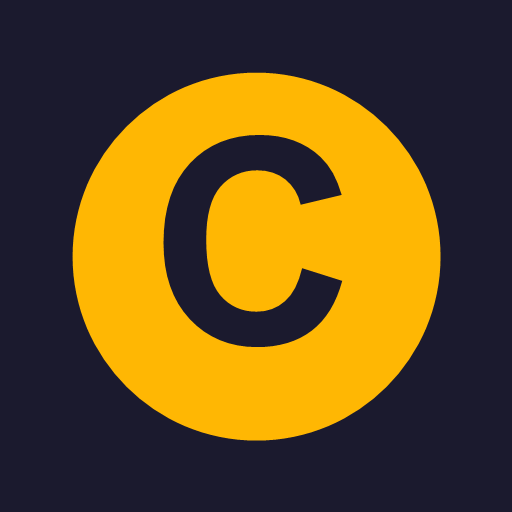
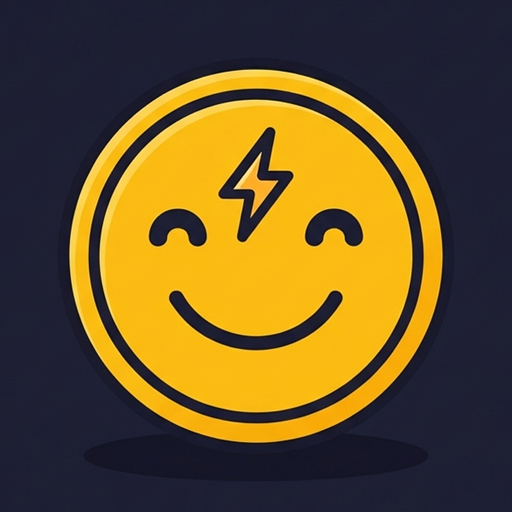
v0.7.1: icona dell'app (any + maskable) e illustrazione della home da immagini generate; sfondo allineato (#1e1f34)

Changed region(s): [[0.125, 0.125, 0.875, 0.875], [0.2812, 0.25, 0.7188, 0.6875]]

diff --git a/css/style.css b/css/style.css
@@ -17,7 +17,7 @@
 }
 
 :root {
-  --bg: #1b1a2e;
+  --bg: #1e1f34;
   --bg-2: #26254a;
   --card: #2f2e5c;
   --text: #f6f3ff;
@@ -832,3 +832,16 @@ button.info {
 .ten-cell.sel { transform: scale(0.9); outline: 4px solid white; }
 .ten-cell.gone { opacity: 0; transform: scale(0.5); }
 .ten-cell.wrong { animation: shake 0.25s; outline: 4px solid var(--danger); }
+
+/* ---------------------------------------------------------------
+   Home: illustrazione
+   --------------------------------------------------------------- */
+.hero {
+  margin: -8px -16px 0;
+  line-height: 0;
+  -webkit-mask-image: linear-gradient(to bottom, #000 78%, transparent 100%);
+  mask-image: linear-gradient(to bottom, #000 78%, transparent 100%);
+}
+.hero img { width: 100%; height: auto; display: block; }
+.home-title { margin-top: -6px; }
+@media (max-height: 700px) { .hero { display: none; } .home-title { margin-top: 24px; } }

diff --git a/sw.js b/sw.js
@@ -5,7 +5,7 @@
   salvata l'ultima volta.
 */
 
-const CACHE_VERSION = "0.7.0"; // tenere allineato a js/version.js
+const CACHE_VERSION = "0.7.1"; // tenere allineato a js/version.js
 const CACHE = `cellcittine-${CACHE_VERSION}`;
 
 const PRECACHE = [
@@ -51,6 +51,9 @@ const PRECACHE = [
   "./fonts/fredoka-latin-ext.woff2",
   "./icons/icon-192.png",
   "./icons/icon-512.png",
+  "./icons/icon-maskable-192.png",
+  "./icons/icon-maskable-512.png",
+  "./assets/home-hero.jpg",
 ];
 
 self.addEventListener("install", (event) => {

diff --git a/js/app.js b/js/app.js
@@ -141,8 +141,10 @@ function showHome(message = "") {
 
   statusEl = statusLine(message, !!message);
 
+  const hero = el("div", { class: "hero" }, [el("img", { src: "assets/home-hero.jpg", alt: "", width: "1000", height: "521" })]);
   show(
-    el("h1", { text: "CELLCITTINE" }),
+    hero,
+    el("h1", { class: "home-title", text: "CELLCITTINE" }),
     el("p", { text: "Sfide a minigiochi, da soli o in gruppo" }),
     el("div", { class: "card" }, [
       nameInput,

diff --git a/index.html b/index.html
@@ -3,7 +3,7 @@
 <head>
   <meta charset="UTF-8">
   <meta name="viewport" content="width=device-width, initial-scale=1, viewport-fit=cover, user-scalable=no">
-  <meta name="theme-color" content="#1b1a2e">
+  <meta name="theme-color" content="#1e1f34">
   <meta name="mobile-web-app-capable" content="yes">
   <meta name="apple-mobile-web-app-capable" content="yes">
   <meta name="apple-mobile-web-app-status-bar-style" content="black-translucent">

diff --git a/js/version.js b/js/version.js
@@ -1,3 +1,3 @@
 // Numero di versione mostrato nell'angolo dello schermo.
 // Va aggiornato insieme a CACHE_VERSION in sw.js a ogni pubblicazione.
-export const VERSION = "0.7.0";
+export const VERSION = "0.7.1";

diff --git a/ROADMAP.md b/ROADMAP.md
@@ -20,12 +20,12 @@ Una riga per idea: `- [ ] cosa` → `- [x] cosa (vX.Y.Z)`. Le decisioni prese st
 - [x] Nessuna manche può bloccarsi: limiti di tempo in Copia e Cronometro cieco (v0.6.1)
 
 - [x] Carattere tipografico Fredoka in tutto il gioco (v0.7.0)
+- [x] Icona dell'app (normale + maskable) e illustrazione della home generate con Nano Banana (v0.7.1)
 
 ## Prossimi passi (in ordine di priorità, da confermare con l'utente)
 
 - [ ] Feedback dal gruppo di test (le ragazze e amici): taratura difficoltà, suoni, minigiochi noiosi da togliere
 - [ ] Rifinitura visiva: transizioni tra schermate, coriandoli sul podio, conto alla rovescia più scenografico
-- [ ] Icona dell'app e schermata iniziale con grafica generata (Nano Banana, prompt consegnati il 21/09; in attesa dei file in assets/)
 - [ ] Sfide salvate con nome anche per manche/difficoltà (oggi i pacchetti salvano solo i minigiochi)
 - [ ] Preferiti (stellina) nella scelta dei minigiochi
 - [ ] Altri minigiochi (idee: labirinto a dito, ritmo con melodia, ordina per grandezza, trova la parola nascosta, tris veloce, pesca)

diff --git a/README.md b/README.md
@@ -23,7 +23,8 @@ js/games/shell.js       cornice comune ai minigiochi (timer, cronometro)
 js/games/<id>.js        codice di un minigioco (caricato solo quando serve)
 js/audio.js             suoni sintetizzati (WebAudio), interruttore 🔊/🔇
 js/version.js           numero di versione mostrato nell'angolo
-icons/                  icone dell'app
+icons/                  icone dell'app (any + maskable, generate da assets/icon-source.png)
+assets/                 immagini: originali (PNG) e versioni usate dall'app (JPEG)
 fonts/                  carattere Fredoka (SIL OFL, licenza in fonts/OFL.txt)
 test.html + js/tester.js  tester nel browser: prova tutto il gioco in meno di un minuto
 tools/check.mjs         controllo rapido da riga di comando (sintassi, catalogo, sw.js, versione)
